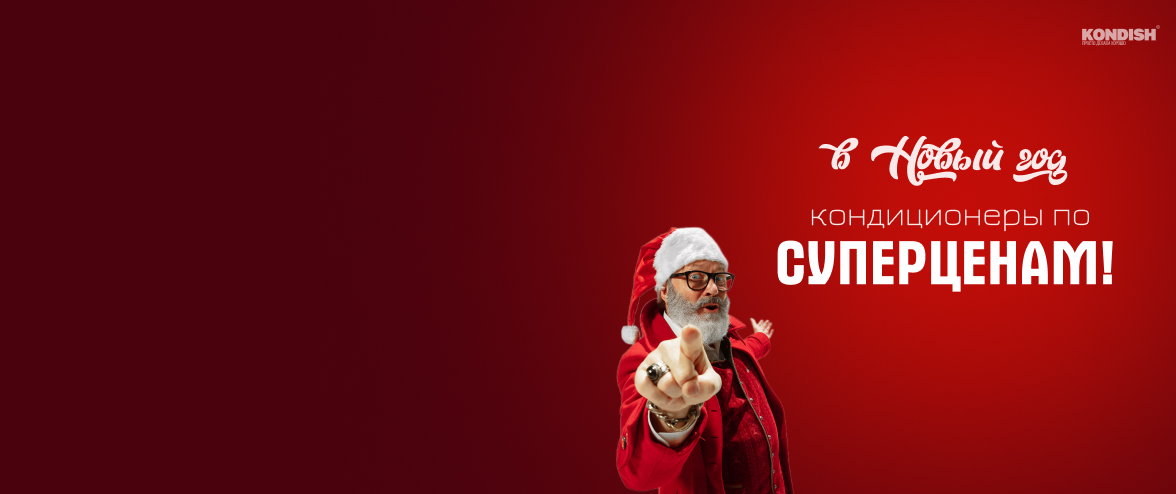
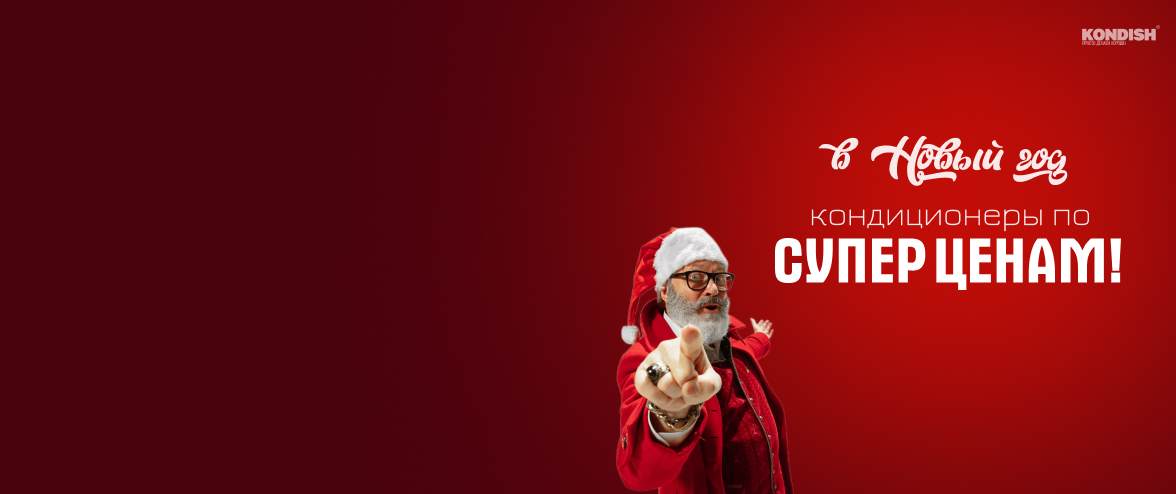
change photo slaes

Changed region(s): [[0.6429, 0.4555, 0.9796, 0.6073]]

diff --git a/src/pages/sales/new-year-sale.tsx b/src/pages/sales/new-year-sale.tsx
@@ -1,13 +1,9 @@
 import Container from "@/components/Container";
 import CastomScreen from "@/components/blocks/castom-screen/castom-screen";
-import MainBlockClassic, {
-  TypesStyleMainBlockClassic,
-} from "@/components/classic-block/main-block";
 import FeedbackForm from "@/components/hello-page/FeedbackForm";
 import Path from "@/components/utils-component/Path";
 import useSubmitOrder from "@/hooks/useSubmitOrder";
 import Head from "next/head";
-import Link from "next/link";
 import { useRouter } from "next/router";
 
 const product_sales = [
@@ -47,10 +43,10 @@ const NewYearSale = () => {
       <Container>
         <Path />
         <CastomScreen
-          title='Успейте установить кондиционер со скидкой!'
-          description='Теперь вы&nbsp;можете воспользоваться эксклюзивной скидкой
-          в&nbsp;размере&nbsp;20% на&nbsp;покупку кондиционера.'
+          title='Предновогодние скидки на кондиционеры'
+          description='Успейте получить выгодные предложения на&nbsp;кондиционеры перед Новым годом! Обеспечьте комфорт в&nbsp;своем доме по&nbsp;выгодной цене.'
           bg='bg-ny-sale'
+          button_type='bg-white hover:bg-white/80 text-slate-950'
           submitOrder={submitOrder}
         />
         <div className='py-12 px-6 w-full max-w-5xl mx-auto'>
@@ -76,6 +72,9 @@ const NewYearSale = () => {
             ))}
           </div>
           <div className='mt-4'>Цена на сайте указана без скидки.</div>
+          <div className='mt-4'>
+            Срок проведения акции с 18.12.2023г. по 31.12.2023г.
+          </div>
         </div>
 
         <div className='-mx-6 py-12 px-6 md:mx-0'>

diff --git a/src/components/blocks/castom-screen/castom-screen.tsx b/src/components/blocks/castom-screen/castom-screen.tsx
@@ -7,7 +7,8 @@ const CastomScreen: React.FC<{
   submitOrder: SubmitOrderState;
   title: string;
   description: string;
-}> = ({ bg, submitOrder, description, title }) => {
+  button_type?: string;
+}> = ({ bg, submitOrder, description, title, button_type }) => {
   return (
     <div className='mx-auto max-w-7xl pb-24 pt-8 sm:px-6 sm:pb-32 sm:pt-12 lg:px-8'>
       <div
@@ -29,7 +30,11 @@ const CastomScreen: React.FC<{
         <div className='mt-10 flex items-center justify-start gap-x-6'>
           <button
             onClick={submitOrder.onOpen}
-            className='rounded-md bg-orange-500 px-3.5 py-2.5 text-sm font-semibold text-white shadow-sm hover:bg-orange-400 focus-visible:outline focus-visible:outline-2 focus-visible:outline-offset-2 focus-visible:outline-indigo-600'
+            className={`rounded-md  px-3.5 py-2.5 text-sm font-semibold shadow-sm  focus-visible:outline focus-visible:outline-2 focus-visible:outline-offset-2 focus-visible:outline-indigo-600 ${
+              button_type
+                ? button_type
+                : "bg-orange-500 hover:bg-orange-400 text-white"
+            }`}
           >
             Консультация
           </button>

diff --git a/src/pages/sales/black-friday.tsx b/src/pages/sales/black-friday.tsx
@@ -1,13 +1,9 @@
 import Container from "@/components/Container";
 import CastomScreen from "@/components/blocks/castom-screen/castom-screen";
-import MainBlockClassic, {
-  TypesStyleMainBlockClassic,
-} from "@/components/classic-block/main-block";
 import FeedbackForm from "@/components/hello-page/FeedbackForm";
 import Path from "@/components/utils-component/Path";
 import useSubmitOrder from "@/hooks/useSubmitOrder";
 import Head from "next/head";
-import Link from "next/link";
 import { useRouter } from "next/router";
 
 const BlackFriday = () => {
@@ -56,6 +52,9 @@ const BlackFriday = () => {
             >
               ROYAL Clima Классические сплит-системы серии VELA NUOVA RC-VX35HN
             </div>
+          </div>
+          <div className='mt-4'>
+            Срок проведения акции с 1.11.2023г. по 1.12.2023г.
           </div>
         </div>
 

diff --git a/src/pages/index.tsx b/src/pages/index.tsx
@@ -1,13 +1,10 @@
 import Script from "next/script";
 import Container from "@/components/Container";
 import Bunner from "@/components/bunner/Bunner";
-import TopBaner from "@/components/bunner/TopBaner";
 import Advantages from "@/components/hello-page/Advantages";
 import DescBlock from "@/components/hello-page/DescBlock";
 import FeedbackForm from "@/components/hello-page/FeedbackForm";
-import Gallery from "@/components/hello-page/Gallery";
 import Guarantee from "@/components/hello-page/Guarantee";
-import MainBlock from "@/components/hello-page/MainBlock";
 import MainBlockV2 from "@/components/hello-page/MainBlockV2";
 import Owerviews from "@/components/hello-page/Owerviews";
 import PopularProducts from "@/components/hello-page/PopularProducts";

diff --git a/src/pages/installation-climber.tsx b/src/pages/installation-climber.tsx
@@ -6,10 +6,6 @@ import MainBlockClassic, {
 import FeedbackForm from "@/components/hello-page/FeedbackForm";
 import Path from "@/components/utils-component/Path";
 import Head from "next/head";
-
-import climber1 from "../../public/image/climber/climber1.jpg";
-import climber2 from "../../public/image/climber/climber2.jpg";
-import climber3 from "../../public/image/climber/climber3.jpg";
 import Advantages from "@/components/hello-page/Advantages";
 
 const InstallationClimber = () => {

diff --git a/src/components/navbar/Navbar.tsx b/src/components/navbar/Navbar.tsx
@@ -54,7 +54,7 @@ const Navbar: React.FC = () => {
         <TopBaner
           closeBunner={setCookiesCloseBanner}
           title='В Новый год!!!'
-          text='Кондиционеры в&nbsp;Kondish по&nbsp;суперценам&nbsp;'
+          text='Кондиционеры в&nbsp;Kondish по&nbsp;супер ценам&nbsp;'
           button='Узнать подробности'
           onClick={() => router.push(NEW_YEAR_DISCOUNT)}
         />

diff --git a/src/constans.ts b/src/constans.ts
@@ -39,7 +39,7 @@ export const PATH_ARRAY = [
 // SALES
 export const sales_list: SalesType[] = [
   {
-    title: "Суперцены в Новый год",
+    title: "Супер цены в Новый год",
     href: NEW_YEAR_DISCOUNT,
     description: "Скидки на технику до 16 000 руб. в Новый год.",
   },

diff --git a/src/pages/basket.tsx b/src/pages/basket.tsx
@@ -1,7 +1,6 @@
 import { HiOutlineFaceFrown } from "react-icons/hi2";
 
 import Container from "@/components/Container";
-import Heading from "@/components/Heading";
 import BasketRow from "@/components/basket/BasketRow";
 import FeedbackForm from "@/components/hello-page/FeedbackForm";
 import useBasketStore from "@/hooks/useBasketStore";

diff --git a/src/components/hello-page/MainBlockV2.tsx b/src/components/hello-page/MainBlockV2.tsx
@@ -35,7 +35,7 @@ const MainBlockV2: React.FC<MainBlockV2Props> = ({ scrollToGallery }) => {
           <MainScreenText scroll={scroll} submitOrder={submitOrder} />
         </div>
       </div>
-      <MainScreenImg path='/image/ny-sale3.jpg' />
+      <MainScreenImg path='/image/ny-sale4.jpg' />
     </div>
   );
 };

diff --git a/src/pages/_app.tsx b/src/pages/_app.tsx
@@ -1,5 +1,4 @@
 import ImageShowComponent from "@/components/ImageShowComponent";
-import TopBaner from "@/components/bunner/TopBaner";
 import Footer from "@/components/footer/Footer";
 import BasketModal from "@/components/modal/BasketModal";
 import SubmitOrderModel from "@/components/modal/SubmitOrderModel";

diff --git a/src/pages/sitemap.xml.tsx b/src/pages/sitemap.xml.tsx
@@ -1,4 +1,3 @@
-import axios from "axios";
 import * as fs from "fs";
 import { GetServerSideProps } from "next";
 
